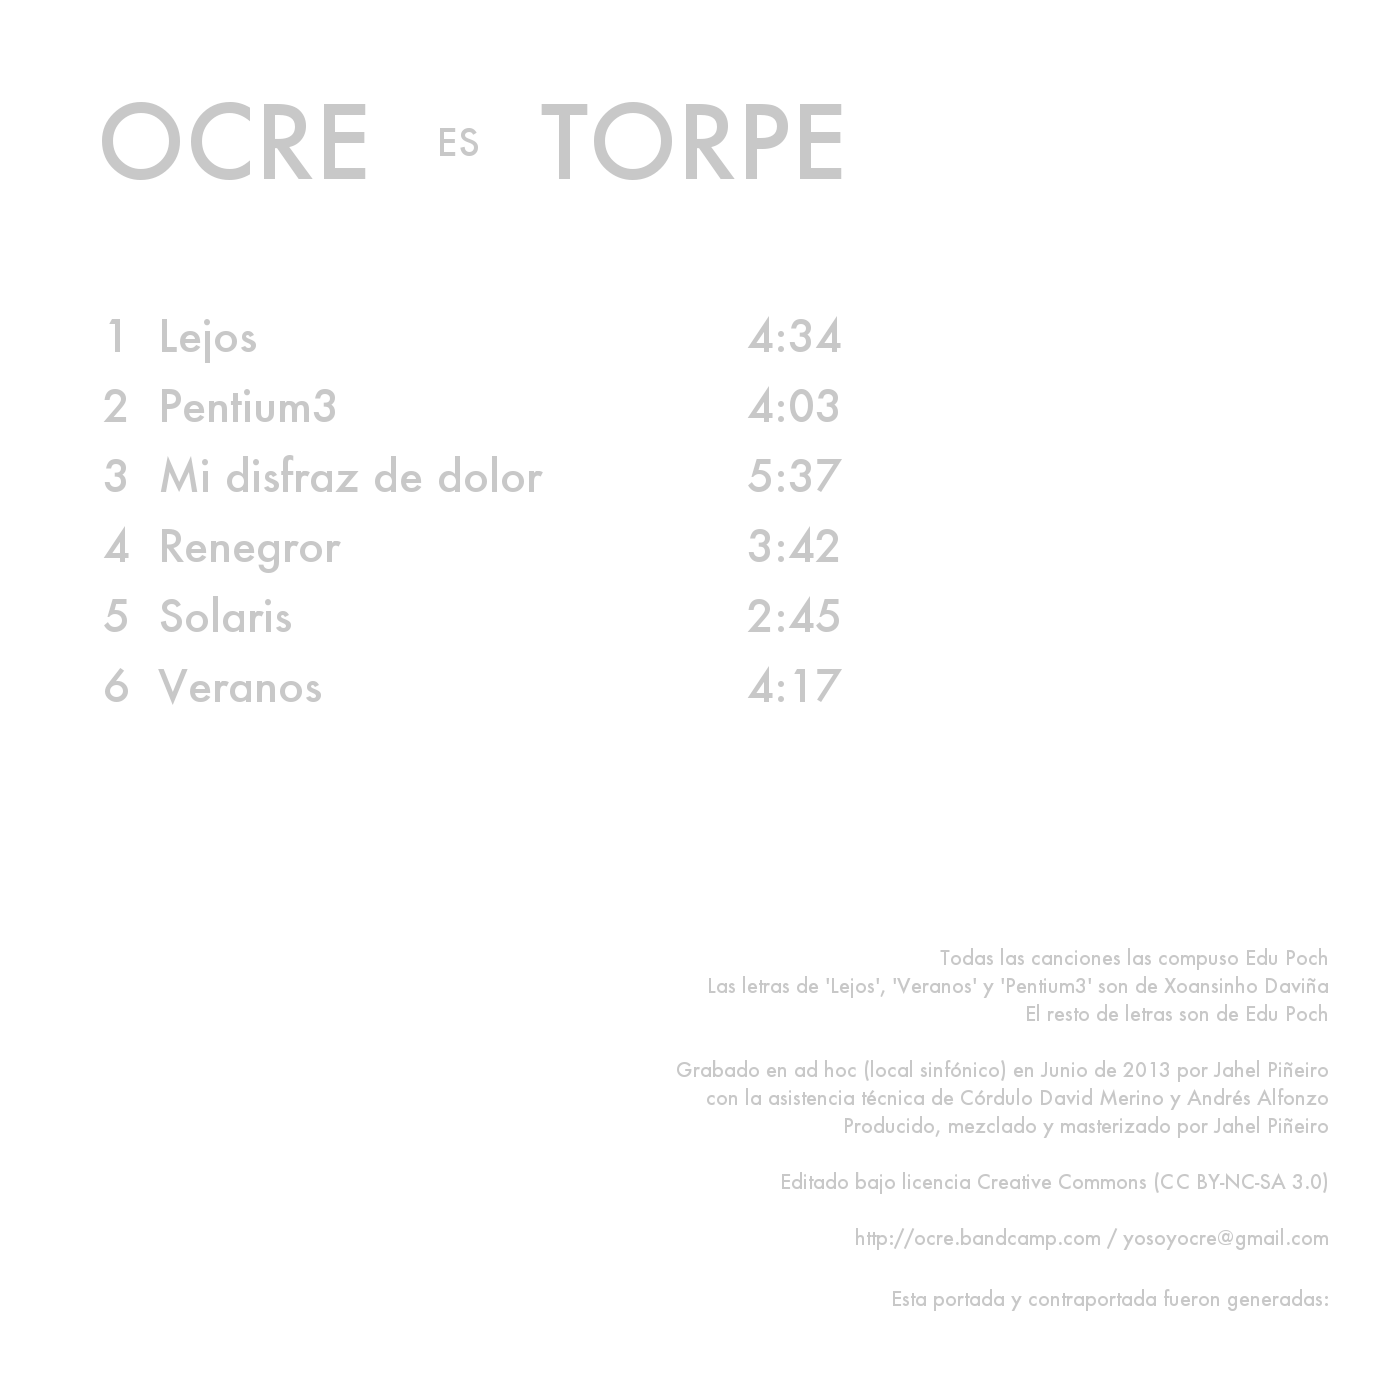
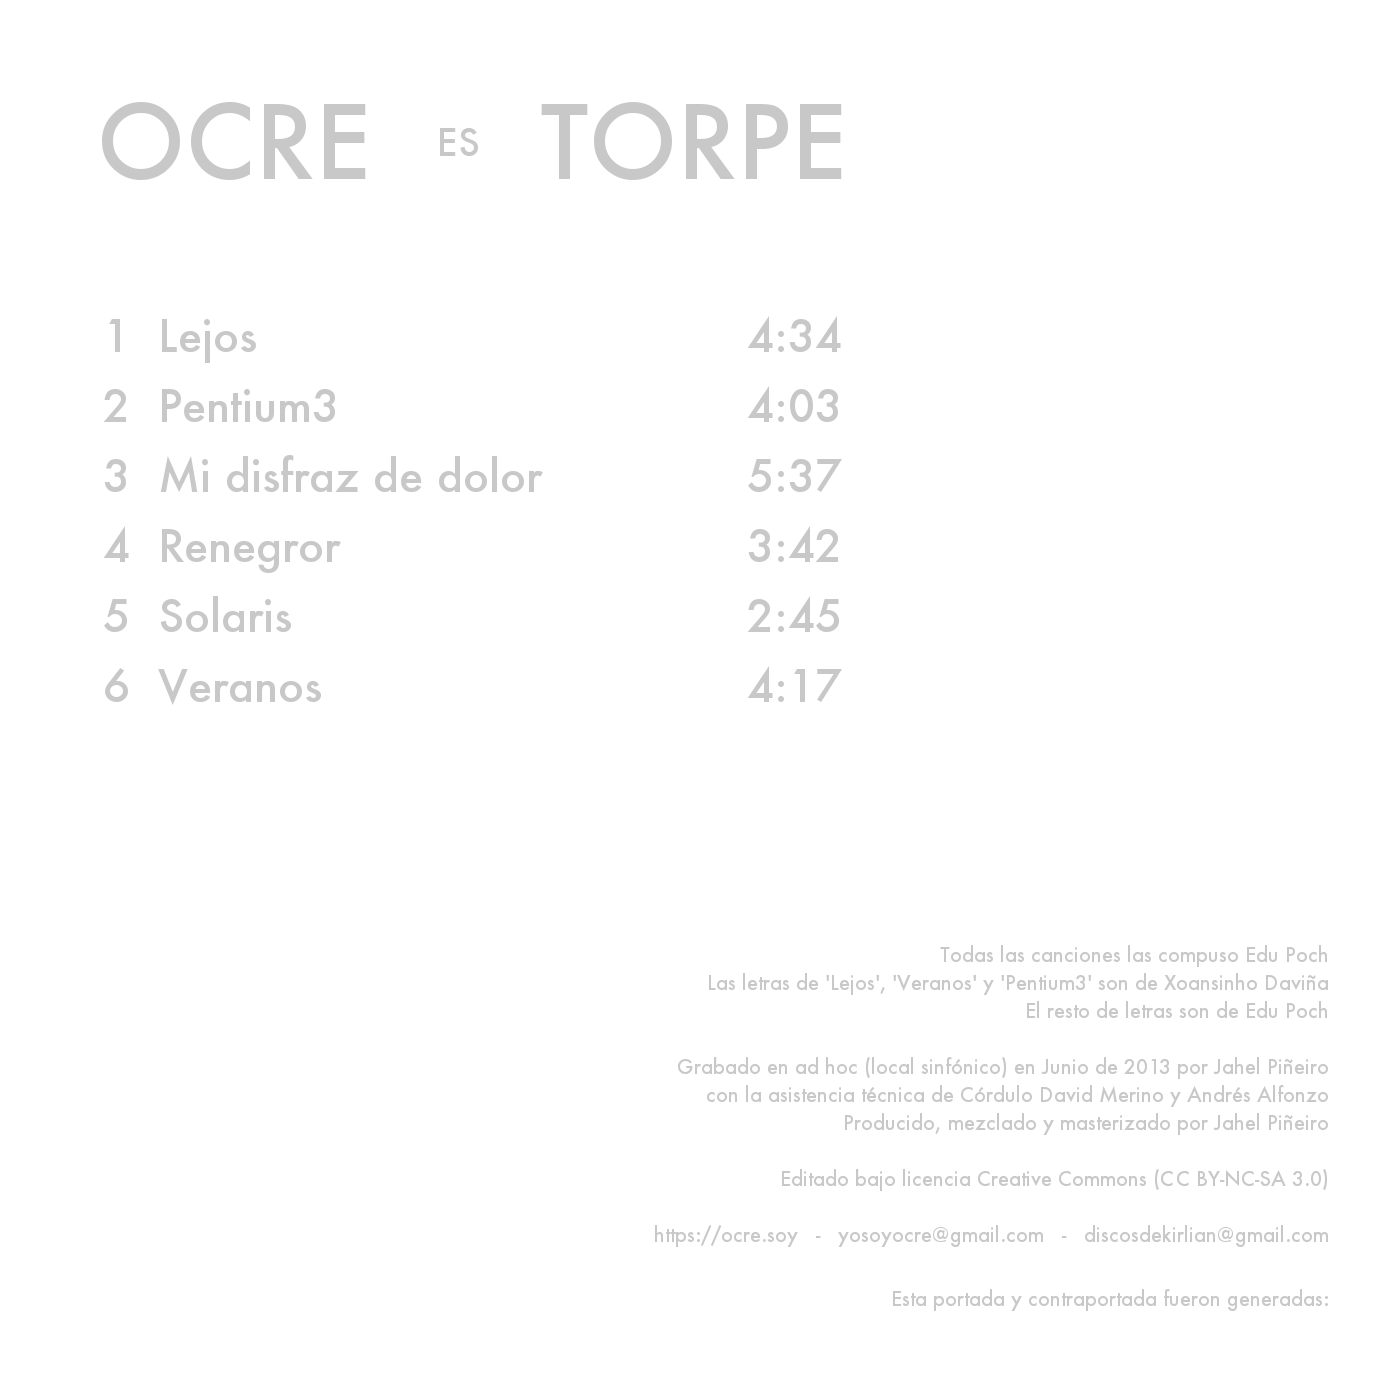
Permitimos la generación múltiple de portadas del Torpe. Actualizamos los créditos del Torpe.

Changed region(s): [[0.4914, 0.6757, 0.9521, 0.8907], [0.4607, 0.86, 0.5221, 0.8907]]

diff --git a/torpe/en/diseno/multiple/index.php b/torpe/en/diseno/multiple/index.php
@@ -1,0 +1,155 @@
+<?php 
+  if (isset($_POST['generar'])) :
+?>
+
+  <html lang="es">
+    <head>
+      <meta charset="UTF-8">
+      <title>Torpe Múltiple</title>
+      <meta name="viewport" content="width=device-width, initial-scale=1">
+      <meta http-equiv="x-ua-compatible" content="ie=edge">
+      <link rel="stylesheet" href="/vendor/bootstrap/css/bootstrap.min.css">
+      <link rel="stylesheet" href="https://maxcdn.bootstrapcdn.com/font-awesome/4.4.0/css/font-awesome.min.css">
+
+      <style>
+        .portada {
+            width: 12cm;
+            margin-bottom: 1.3rem;
+        }
+      </style>
+      
+      <script src="https://ajax.googleapis.com/ajax/libs/jquery/2.1.4/jquery.min.js"></script>
+      <script src="/vendor/bootstrap/js/bootstrap.js"></script>
+
+      <script src="../js/torpe.js?v=17112100"></script>
+      <script>
+        $(function() {
+
+          function formatDate(date) {
+              function pad(n) { return n < 10 ? '0' + n : n; }
+
+              return 'el ' +
+                  pad(date.getDate()) + '/' +
+                  pad(date.getMonth() + 1) + '/' +
+                  pad(date.getFullYear()) + ' a las ' +
+                  pad(date.getHours()) + ':' +
+                  pad(date.getMinutes());
+          }
+
+          var $disenos = $('.js-diseno');
+
+          if ($disenos.length) {
+            $disenos.each(function() {
+              var $this = $(this);
+              var $portada = $this.find('.js-portada');
+              var $contra = $this.find('.js-contra');
+              var dedicatoria = $this.data('dedicatoria') ? $this.data('dedicatoria') : null;
+
+              var portada = new Torpe(),
+                  contra = new Torpe(),
+                  textoPortada = new Image(),
+                  textoContra = new Image(),
+                  paleta;
+
+              textoPortada.src = '../img/front.png';
+              textoContra.src = '../img/back.png';
+
+              portada.draw();
+              textoPortada.onload = function () {
+                  portada.drawImage(this, 0, 0);
+
+                  $portada.attr('src', portada.getImageDataURI());
+              };
+
+              paleta = portada.getPalette();
+
+              contra.options.palette = paleta;
+              contra.options.minCombinedElements = 1;
+              contra.draw();
+
+              textoContra.onload = function () {
+                  contra.drawImage(this, 0, 0);
+
+                  var text = '';
+
+                  if (dedicatoria) {
+                    text = dedicatoria + ', ';
+                  }
+
+                  text = text + formatDate(new Date());
+
+                  contra.writeText(text, 19 * 70, 19 * 70);
+
+                  $contra.attr('src', contra.getImageDataURI());
+              };
+
+            });
+          }
+        });
+      </script>
+
+    </head>
+    <body>     
+
+      <?php 
+        $n = intval($_POST['n']);
+        $dedicatorias = [];
+
+        if ($_POST['dedicatorias']) {
+          $dedicatorias = preg_split('/\r\n|[\r\n]/', trim($_POST['dedicatorias']));
+        }
+
+        for ($i = 0; $i < $n; $i++) :
+      ?>
+
+          <div class="js-diseno" <?= isset($dedicatorias[$i]) ? 'data-dedicatoria="' . $dedicatorias[$i] . '"' : ''; ?> >
+            <img class="portada js-portada" alt="Esta es tu portada del Vago" />
+            <img class="portada js-contra" alt="Esta es tu contraportada del Vago" />
+          </div>
+
+      <?php
+        endfor;
+      ?>
+    </body>
+  </html>
+
+<?php 
+  else :
+?>
+
+  <?php require('../../../../_cabecera.php'); ?>
+
+  <div class="row">
+    <div class="col-lg-8">
+      <h1>
+        <span class="separador">/</span> <a href="/torpe">torpe</a>
+        <span class="separador">/</span> <a href="/torpe/en">en</a>
+        <span class="separador">/</span> <a href="/torpe/en/diseno">diseño</a>
+        <span class="separador">/</span> <a href="/torpe/en/diseno/multiple">multiple</a>
+      </h1>
+
+      <p>
+        Este es un sistema para generar varios diseños del <a href="/torpe/en/diseno">Torpe</a> a la vez.
+      </p>
+
+      <form method="post">
+        <div class="form-group">
+          <label for="n">Número de diseños</label>
+          <input style="max-width: 100px;" type="number" class="form-control" id="n" name="n">
+        </div>
+        <div class="form-group">
+          <label for="dedicatorias">Dedicatorias</label>
+          <textarea class="form-control" id="dedicatorias" name="dedicatorias" rows="5"></textarea>
+        </div>
+        <button name="generar" type="submit" class="btn btn-default">Generar</button>
+      </form>
+
+    </div>
+  </div>
+
+
+  <?php require('../../../../_pie.php'); ?>
+
+<?php 
+  endif;
+?>

diff --git a/torpe/en/diseno/index.php b/torpe/en/diseno/index.php
@@ -7,11 +7,12 @@
     function formatDate(date) {
         function pad(n) { return n < 10 ? '0' + n : n; }
 
-        return pad(date.getHours()) + ':' +
-            pad(date.getMinutes()) + ' ' +
+        return 'el ' +
             pad(date.getDate()) + '/' +
             pad(date.getMonth() + 1) + '/' +
-            pad(date.getFullYear());
+            pad(date.getFullYear()) + ' a las ' +
+            pad(date.getHours()) + ':' +
+            pad(date.getMinutes());
     }
 
     function nuevoDiseno() {
